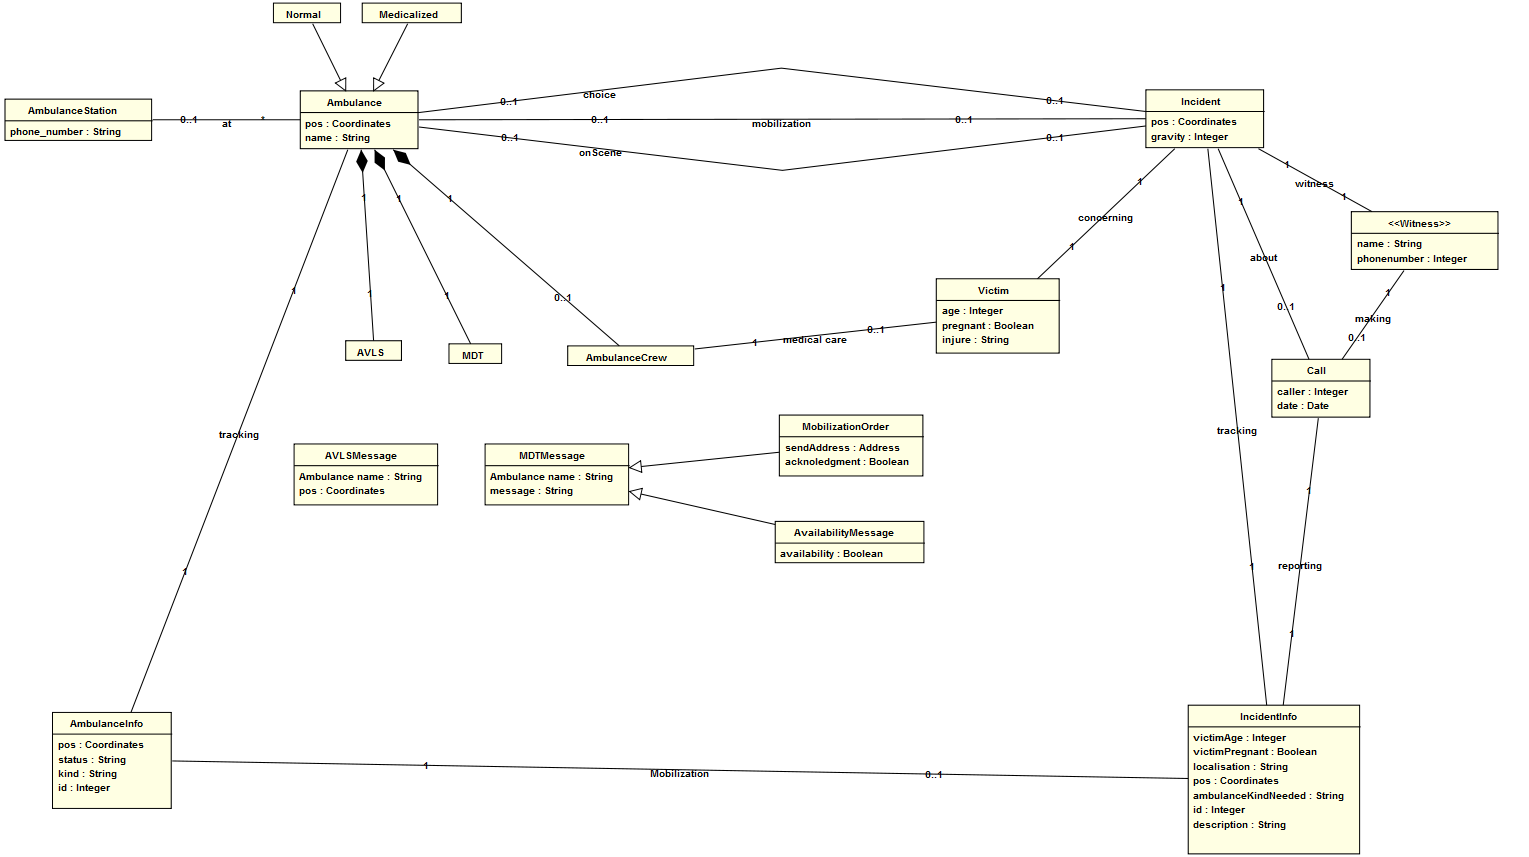
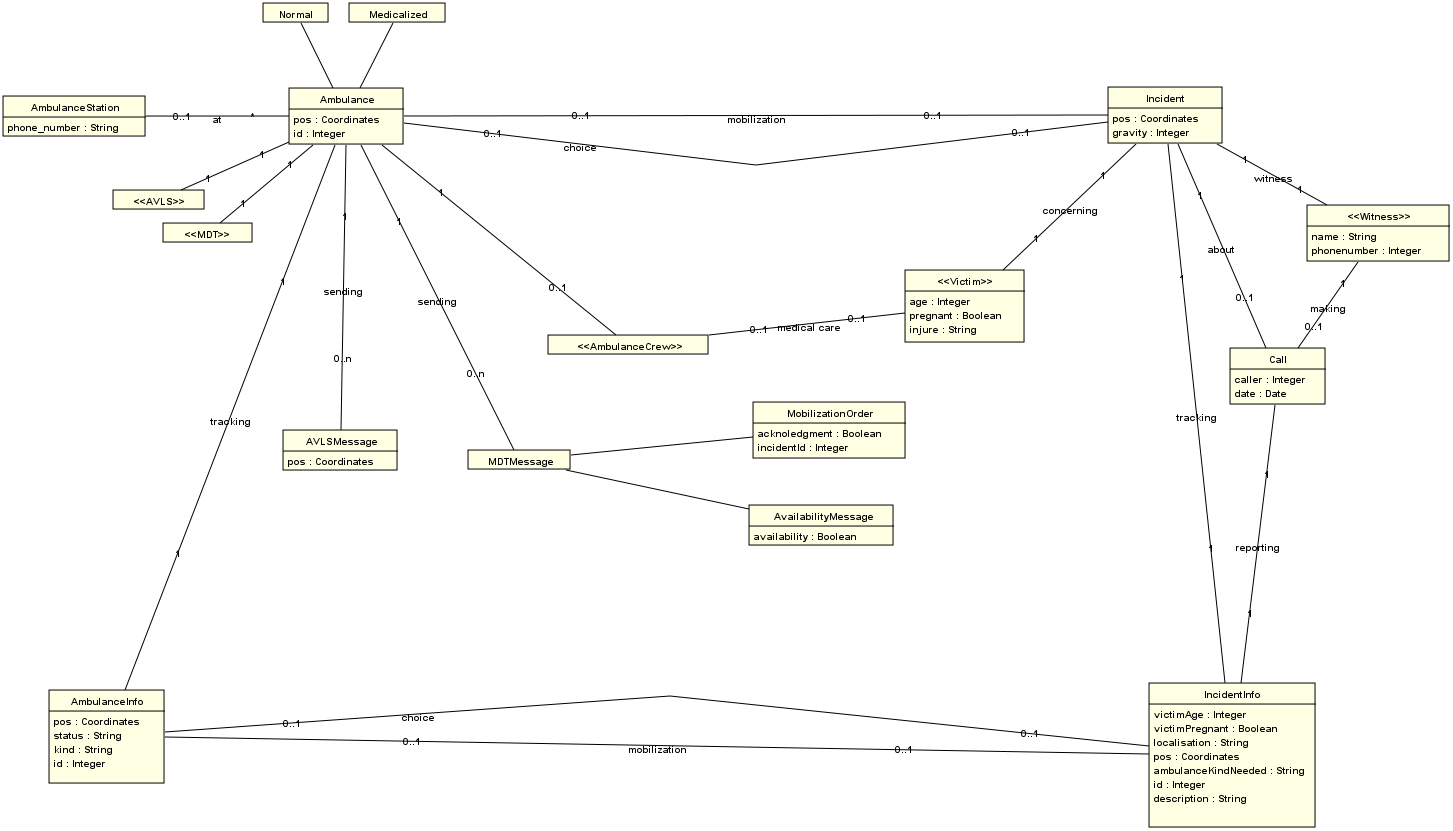
update report

diff --git a/rapport1/parties/goal.tex b/rapport1/parties/goal.tex
@@ -79,19 +79,19 @@ machines à états et augmenter la cohérence de notre modèle de buts.
 	\begin{equation*}
 		\begin{array}{rcl}
 			AmbulanceChosen(i:IncidentInfo)  
-			& = & \exists a:AmbulanceInfo
+			& = & \exists a:AmbulanceInfo \\
 			&   & \wedge a.choice = 1 \\
 			&   & \wedge \#i.choice = 1 \\
 			&   & \wedge a.choice \rightarrow i \\
 			
 			\multicolumn{3}{l}{MobilizationOrderTransmitted(a: Ambulance, i:Incident)} \\ 
 			& = & \exists m: MobilizationOrder, \\
-			&   & m.ambulanceId = a \\
+			&   & m.sender \rightarrow a \\
 			&   & \wedge m.incident = 1 \\
 			
 			\multicolumn{3}{l}{MobilizationOrderConfirmed(a:Ambulance, i:Incident)} \\ 
 			& = & \exists m:MoblisationOrder: \\
-			&   & m.ambulanceId = a.id \wedge m.incidentId = i.id \\ 
+			&   & m.sender \rightarrow a \wedge m.incidentId = i.id \\ 
 			&   & \wedge m.acknowledgement = True \\
 		\end{array}
 	\end{equation*}
